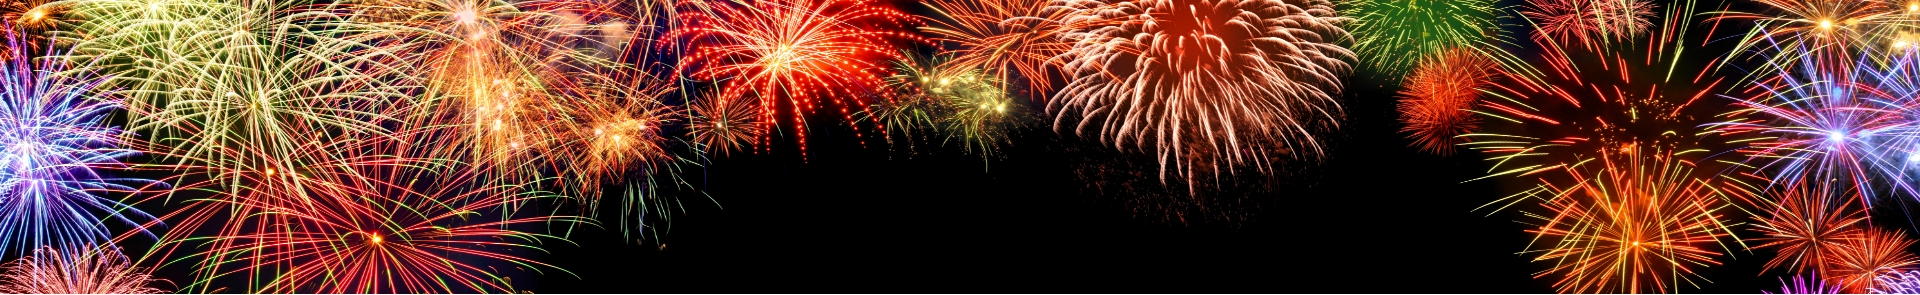
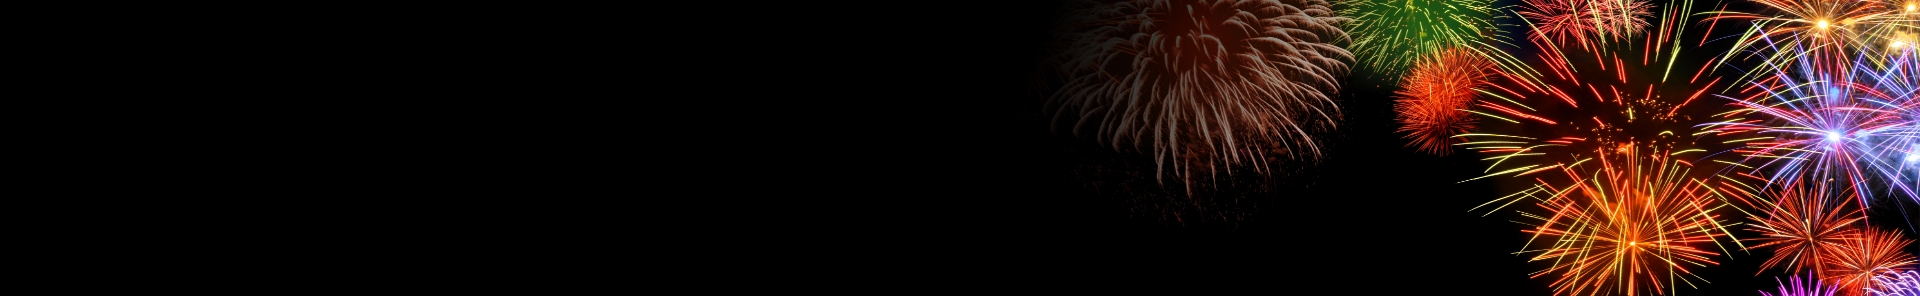
update

diff --git a/RCD-LP/index.html b/RCD-LP/index.html
@@ -11,12 +11,13 @@
     <div class="rcd-header">
       <div class="rcd-container">
         <h1>
-          <span>戦略的なレビュー論文執筆を、体系的にサポート</span>
+          戦略的なレビュー論文執筆を、体系的にサポート<br>
+          <span>
+            専門分野での存在感を高め、夏の花火のように一目置かれる存在に
+          </span>
         </h1>
 
-        <h2>
-          <span>専門分野での存在感を高め、夏の花火のように一目置かれる存在に</span>
-        </h2>
+        <img src="https://www.edanz.com/sites/default/files/rcd-header-bg-2.png" alt="">
       </div>
     </div>
 
@@ -95,6 +96,17 @@
 
           <div class="rcd-right">
             <img src="https://www.edanz.com/sites/default/files/rcd-content-img-1.jpg" alt="">
+
+            <div class="rcd-article">
+              <img src="https://www.edanz.com/sites/default/files/rcd-article-1.jpg" alt="">
+            </div>
+
+            <h4>
+              エダンズがサポートしたレビュー論文の一例をご紹介：<br>
+              <br>
+              コンセプト作成から、洞察力に満ちたタイムリーな<br>
+              レビュー論文の作成までサポートが可能です。
+            </h4>
           </div>
         </div>
 
@@ -130,37 +142,25 @@
             <div class="rcd-card">
               <p>
                 自分の専門分野に関する文献をここまでのレベルで詳細に分析できる能力に驚き。<br>
-                まとめられたレビュー論文コンセプトやRationalは期待以上だった。 
-                <span>XX大学　教授</span>
+                まとめられたレビュー論文コンセプトやRationaleは期待以上だった。 
+                <span>大学 講師</span>
               </p>
             </div>
 
             <div class="rcd-card">
               <p>
                 Presubmission inquiry(PSI) のレター作成能力は、流石だと思った。自分一人では、そこまでのPSIレターは書けないので、レビュー論文投稿へのプロセスまでの大きなサポートを受けられたと感じている。
-                <span>XX大学　教授</span>
+                <span>大学 講師</span>
               </p>
             </div>
 
             <div class="rcd-card">
               <p>
-                Presubmission inquiry(PSI) <br>という方法を知らなかったが、この方法を知り、自発的にレビュー論文を作成しようというモチベーションになった。
+                Presubmission inquiry(PSI) という方法を知らなかったが、この方法を知り、自発的にレビュー論文を作成しようというモチベーションになった。<br>
                 <br>
-                <span>XX大学　教授</span>
+                <span>国立病院 講師</span>
               </p>
             </div>
-          </div>
-        </div>
-
-        <hr>
-
-        <div class="rcd-articles">
-          <h3>
-            エダンズがサポートしたレビュー論文のご紹介
-          </h3>
-
-          <div class="rcd-article">
-            <img src="https://www.edanz.com/sites/default/files/rcd-article-1.jpg" alt="">
           </div>
         </div>
       </div>
@@ -170,9 +170,9 @@
 
   <script src="https://sdk.form.run/js/v2/embed.js"></script>
   <div
-    class="formrun-embed"
-    data-formrun-form="@rev-concept-dev"
-    data-formrun-redirect="true">
-  </div>
+  class="formrun-embed"
+  data-formrun-form="@rev-concept-dev"
+  data-formrun-redirect="true">
+</div>
 </body>
 </html>

diff --git a/RCD-LP/css/style.css b/RCD-LP/css/style.css
@@ -28,23 +28,29 @@
   background: url(https://www.edanz.com/sites/default/files/rcd-header-bg.jpg) center / cover no-repeat;
   margin-bottom: 35px;
   padding: 100px 0px 65px;
+  position: relative;
 }
 .rcd-header h1 {
-  font-size: 45px !important;
-  line-height: 72px;
+  background-color: #fff;
+  font-size: 40px !important;
+  line-height: 40px;
   letter-spacing: -1px;
-  margin-bottom: 15px;
+  padding: 5px 50px;
+  position: relative;
+  text-align: center;
+  z-index: 99;
 }
-.rcd-header h2 {
+.rcd-header h1 span {
   font-size: 24px !important;
   line-height: 42px;
 }
-.rcd-header h1 span,
-.rcd-header h2 span {
-  background-color: #fff;
-  display: inline-block;
-  margin: 0 10px;
-  padding: 5px;
+.rcd-header img {
+  position: absolute;
+  top: 0;
+  left: 5%;
+  width: 100%;
+  max-width: 800px;
+  z-index: 9;
 }
 
 .rcd-content {
@@ -167,11 +173,32 @@
 
 .rcd-right {
   flex-shrink: 0;
+  position: relative;
   width: 435px;
 }
 .rcd-right img {
   width: 100%;
 }
+.rcd-right h4 {
+  margin-top: 15px;
+  font-size: 12px !important;
+  line-height: 18px;
+  text-align: center;
+}
+.rcd-article {
+  position: absolute;
+  top: 240px;
+  left: 50%;
+  transform: translateX(-50%);
+  width: 290px;
+}
+.rcd-article img {
+  width: 100%;
+}
+.rcd-article:hover img {
+  transform: scale(2.5);
+}
+
 
 .rcd-content hr {
   background-color: #ccc;
@@ -230,9 +257,9 @@
 }
 .rcd-card {
   background: url(https://www.edanz.com/sites/default/files/rcd-card-bg.png) center / 100% 100% no-repeat;
-  padding: 25px 10px 45px 20px;
+  padding: 30px 20px 10px;
   position: relative;
-  width: calc(100% / 3 - 30px);
+  width: calc(100% / 3 - 20px);
 }
 .rcd-card:before {
   content: "";
@@ -255,32 +282,13 @@
 .rcd-card p {
   font-size: 16px !important;
   line-height: 26px;
+  padding-left: 0;
 }
 .rcd-card p span {
   display: block;
   text-align: right;
 }
 
-.rcd-articles {
-  display: flex;
-  flex-direction: row;
-  flex-wrap: wrap;
-  justify-content: center;
-  margin-top: 45px;
-}
-.rcd-articles h3 {
-  margin-bottom: 30px;
-  width: 100%;
-}
-.rcd-article {
-  width: 260px;
-}
-.rcd-article img {
-  width: 100%;
-}
-.rcd-article:hover img {
-  transform: scale(2.5);
-}
 
 @media (max-width: 1024px) {
   .rcd-header {
